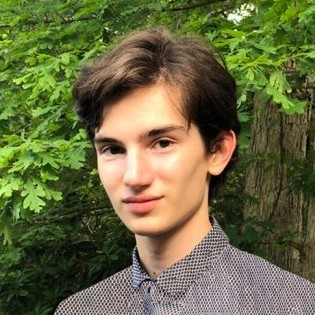
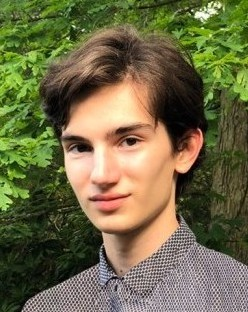
Reformatted Hero

diff --git a/src/components/index.css b/src/components/index.css
@@ -13,7 +13,7 @@
     padding-bottom: 40px;
     display: grid;
     margin: 0 auto;
-    max-width: 1000px;
+    max-width: 1100px;
     grid-template-columns: repeat(2,auto);
   }
   
@@ -110,27 +110,12 @@
   }
   
   
-  
-  @media (max-width: 1000px) {
-  
-    .HeroGroup {
-      grid-template-columns: none;
-      grid-template-rows: repeat(2, auto);
-    }
-  
-    .HeroGroup img {
-      margin: 0 auto;
-      max-width: 200px;
-    }
-  
-  
-   
-  }
+
   
   .HeroGroup img {
-    margin: 0 auto;
-    max-width: 250px;
-    border-radius: 50%;
+    margin: 0 0;
+    max-height: 275px;
+    border-radius: 30px;
     padding: 20px;
   }
   
@@ -138,7 +123,7 @@
   
   
   .HeroTextGroup {
-    margin: 0 auto;
+    margin: 0 0 0 0;
     max-width: 600px;
     text-align: start;
     align-self: center;
@@ -200,10 +185,11 @@
   
   
   
-  @media (max-width: 640px) {
+  @media (max-width: 1000px) {
     .HeroGroup {
       padding-top: 40px;
       padding-bottom: 0px;
+      max-width: 800px;
     }
   
     .HeroTextGroup h1 {
@@ -214,16 +200,37 @@
       font-size: 18px;
     }
   
+    
+  
+  
+  
+  }
+
+  @media (max-width: 640px) {
     .Hero .Socials {
       padding-top: 20px;
       margin: auto;
       grid-gap: 20px;
     }
-  
-  
-  
+
+    .HeroGroup {
+      grid-template-columns: none;
+      grid-template-rows: repeat(2, auto);
+    }
+
+    .HeroGroup img {
+      margin: 0 auto;
+    }
+
+    .Padding {
+      padding: 0 0px;
+    }
+
   }
   
+  .Padding {
+    padding: 0 30px;
+  }
   
   
   @keyframes HeroAnimation {

diff --git a/src/pages/index.tsx b/src/pages/index.tsx
@@ -8,8 +8,8 @@ import "../components/index.css"
 const IndexPage = () => (
   <Layout>
     <div className="Hero">
+    <div className="Padding">
       <div className="HeroGroup">
-      <img src={require('../images/me.jpg')}/>
       <div className="HeroTextGroup">
         <p>Hey there, I'm</p>
         <h1>Vincent <span className="lastName">Spitale</span></h1>
@@ -40,12 +40,15 @@ const IndexPage = () => (
          
           </div>
       </div>
-      
+
+      <img src={require('../images/me.jpg')}/>
       </div>
+      </div>
+      
     
     </div>
 
-    
+    <div className="Padding">
     <div className="InfoSections">
       <Section>
       <div className="Important">
@@ -110,10 +113,8 @@ const IndexPage = () => (
       </Section>
       
     </div>
-
-    <div className="HeroTextGroup">
-    
     </div>
+
     
   </Layout>
 )
